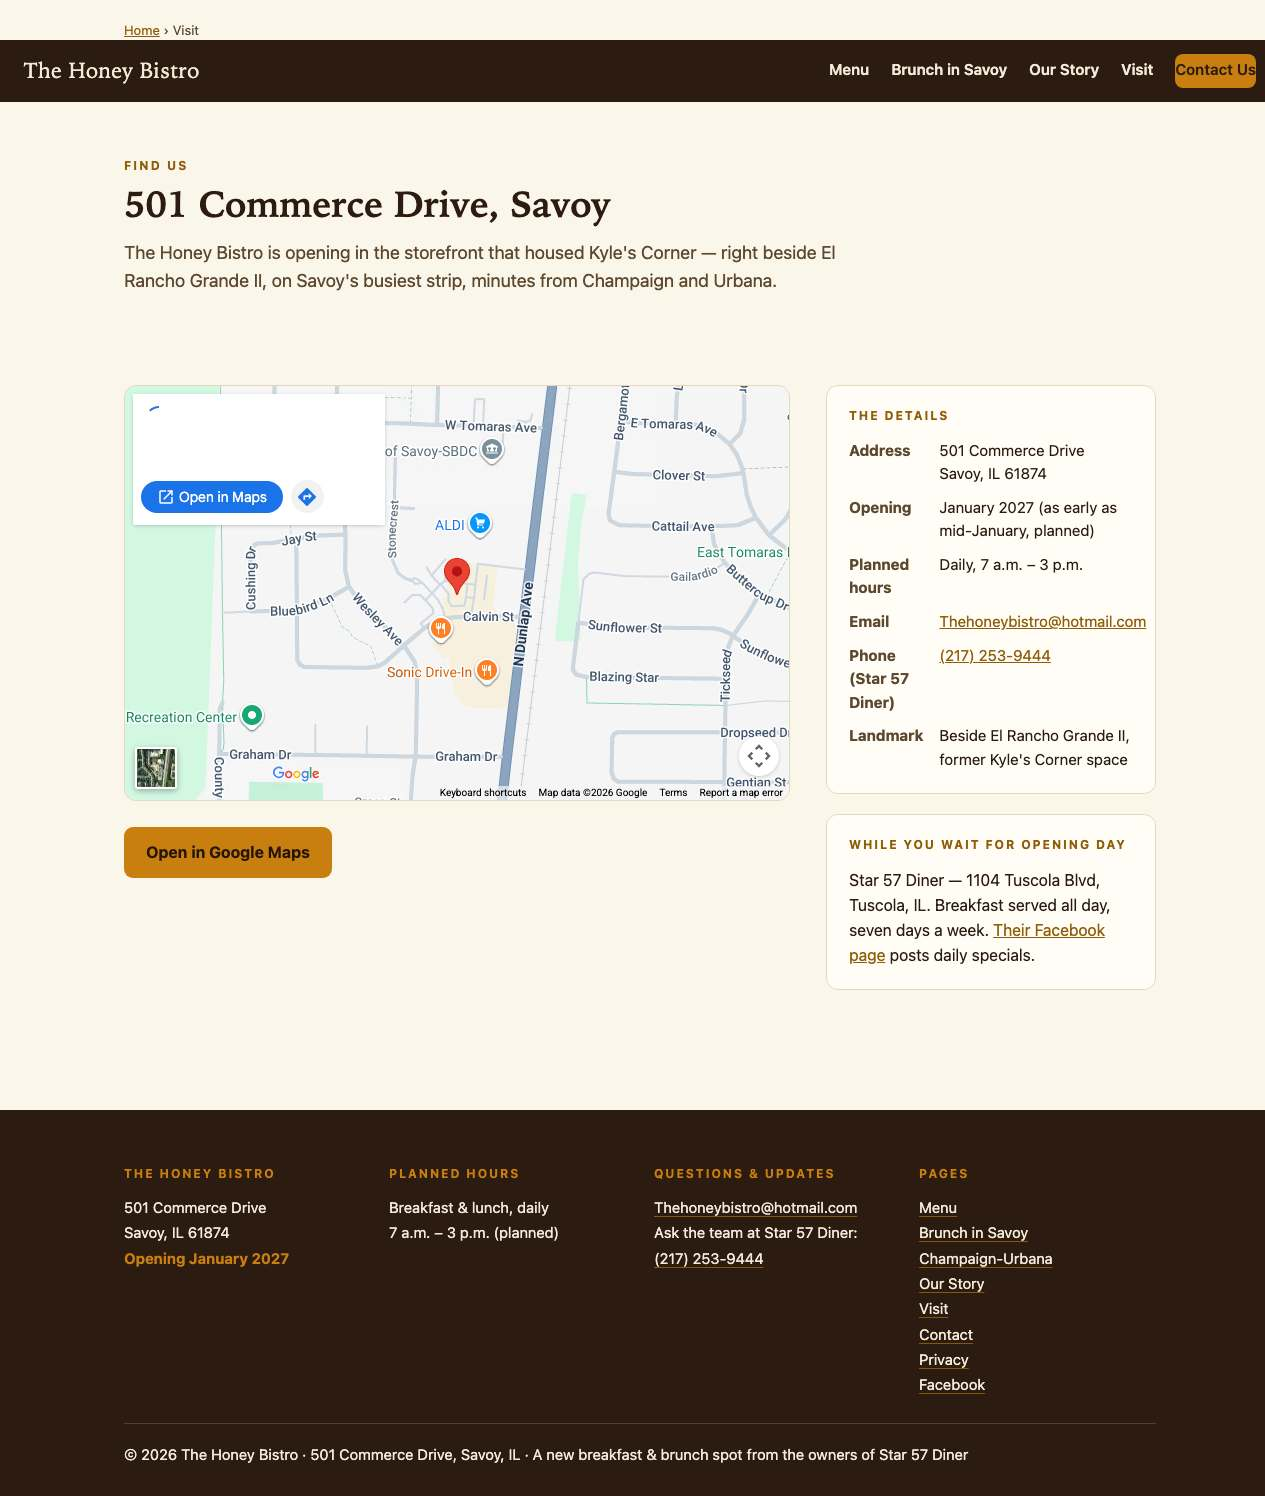
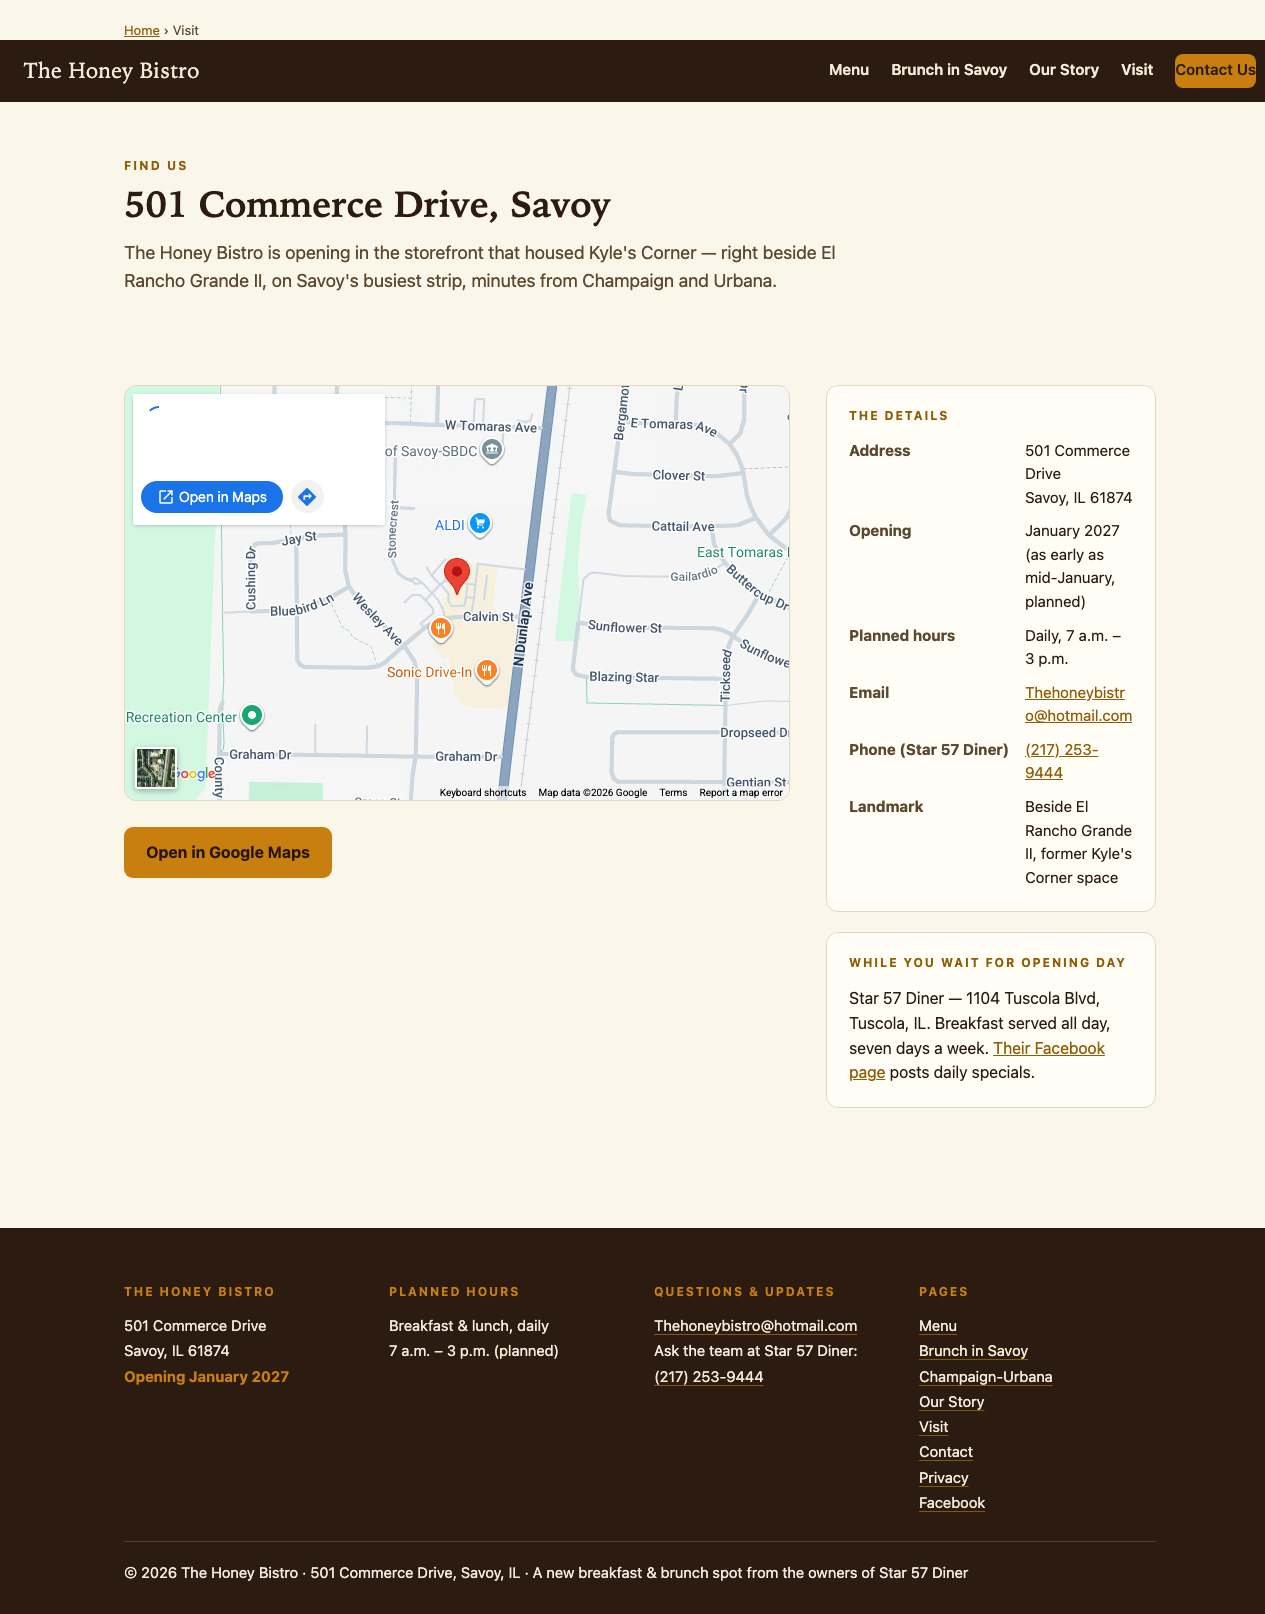
hero ghost button -> dark ink label (cream-on-cream contrast fail); nbsp keeps 'tried yet' together

diff --git a/public/index.html b/public/index.html
@@ -61,7 +61,7 @@
     A fresh take on your favorite flavors: good food, warm hospitality, and a little touch of honey.</p>
     <p class="cta-row">
       <a class="btn" href="/contact">Get opening updates</a>
-      <a class="btn ghost" href="tel:+12172539444">Call the team: (217)&nbsp;253-9444</a>
+      <a class="btn ghost ink" href="tel:+12172539444">Call the team: (217)&nbsp;253-9444</a>
     </p>
   </div>
 </section>
@@ -69,7 +69,7 @@
 <section class="band">
   <div class="wrap">
     <p class="k">What&apos;s cooking</p>
-    <h2>The plates you already love — plus things you haven&apos;t tried yet</h2>
+    <h2>The plates you already love — plus things you haven&apos;t tried&nbsp;yet</h2>
     <p class="sub">We&apos;re bringing Star 57&apos;s kitchen to Savoy: the breakfast favorites people
     drive to Tuscola for, new plates that only exist here, and signature honey dishes that gave
     the place its name. Full menu and prices come with opening day.</p>

diff --git a/build_pages.py b/build_pages.py
@@ -221,7 +221,7 @@ PAGES['index.html'] = (head(f'{BRAND} — Breakfast & Brunch in {CITY}, {ST} —
     A fresh take on your favorite flavors: good food, warm hospitality, and a little touch of honey.</p>
     <p class="cta-row">
       <a class="btn" href="/contact">Get opening updates</a>
-      <a class="btn ghost" href="tel:+12172539444">Call the team: (217)&nbsp;253-9444</a>
+      <a class="btn ghost ink" href="tel:+12172539444">Call the team: (217)&nbsp;253-9444</a>
     </p>
   </div>
 </section>
@@ -229,7 +229,7 @@ PAGES['index.html'] = (head(f'{BRAND} — Breakfast & Brunch in {CITY}, {ST} —
 <section class="band">
   <div class="wrap">
     <p class="k">What&apos;s cooking</p>
-    <h2>The plates you already love — plus things you haven&apos;t tried yet</h2>
+    <h2>The plates you already love — plus things you haven&apos;t tried&nbsp;yet</h2>
     <p class="sub">We&apos;re bringing Star 57&apos;s kitchen to Savoy: the breakfast favorites people
     drive to Tuscola for, new plates that only exist here, and signature honey dishes that gave
     the place its name. Full menu and prices come with opening day.</p>
